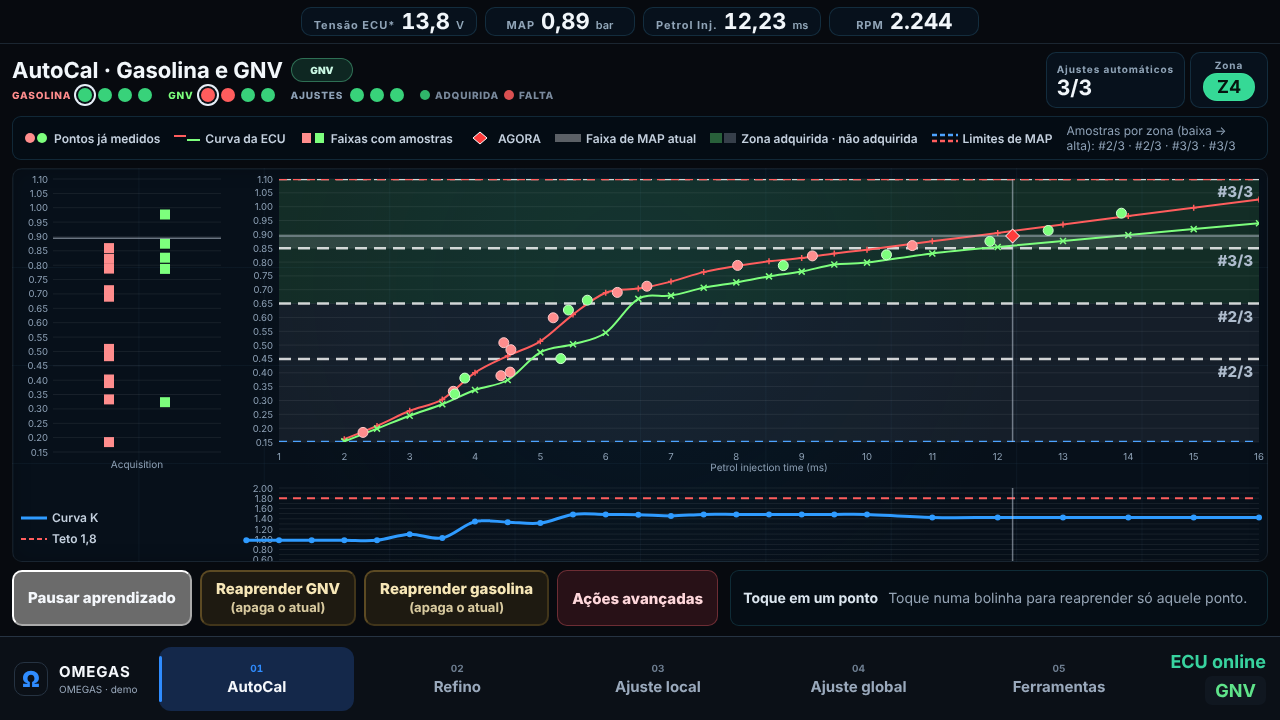
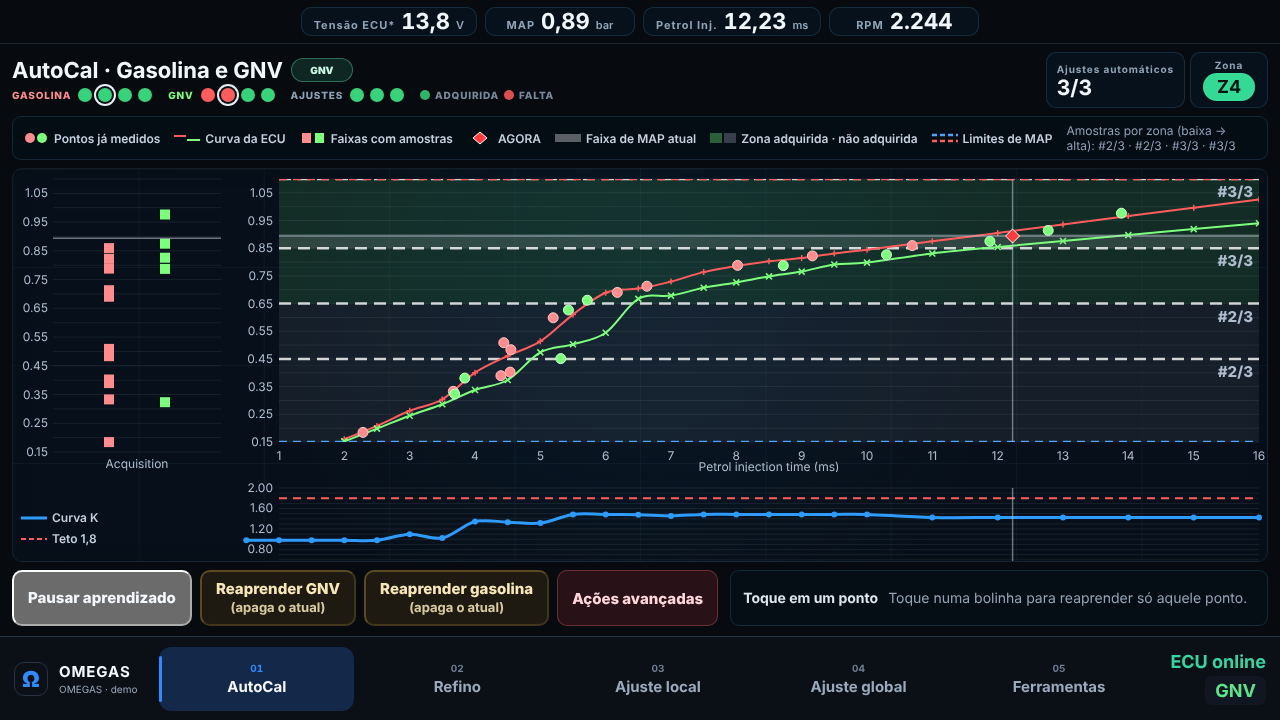
Gráfico: números do eixo em 12 px (rótulo a cada 0,10), eixo K a cada 0,4; mede de novo depois que o layout assenta ao abrir AutoCal/Refino (sem pulo de tamanho)
Claude-Session: https://claude.ai/code/session_01TRDWCk2w2o4Z1q8882kAjb

diff --git a/app/src/main/assets/ui/screens/autocal-original.js b/app/src/main/assets/ui/screens/autocal-original.js
@@ -261,7 +261,8 @@
     }
     for (const value of yTicks(model.axisY, 1)) {
       out.push('<line class="ao-grid" x1="' + p.m.left + '" x2="' + (p.m.left + p.w) + '" y1="' + fixed(p.Y(value)) + '" y2="' + fixed(p.Y(value)) + '"/>');
-      out.push('<text class="ao-tick" x="' + (p.m.left - 6) + '" y="' + fixed(p.Y(value) + 3.5) + '" text-anchor="end">' + value.toFixed(2) + '</text>');
+      // Grade de 0,05 em 0,05; número de 0,10 em 0,10 e em 12 px (multimídia: letra legível, sem número em cima de número).
+      if (Math.round((value - model.axisY.min) / model.axisY.step) % 2 === 0) out.push('<text class="ao-tick" x="' + (p.m.left - 6) + '" y="' + fixed(p.Y(value) + 4) + '" text-anchor="end">' + value.toFixed(2) + '</text>');
     }
     const xTicks = Math.floor(model.axisX.max);
     for (let value = Math.ceil(model.axisX.min); value <= xTicks; value += 1) {
@@ -329,7 +330,7 @@
     out.push('<svg class="ao-svg" data-ao="acquisition" viewBox="0 0 ' + width + ' ' + height + '" role="img" aria-label="Acquisition">');
     for (const value of yTicks(model.axisY, 1)) {
       out.push('<line class="ao-grid" x1="' + p.m.left + '" x2="' + (p.m.left + p.w) + '" y1="' + fixed(p.Y(value)) + '" y2="' + fixed(p.Y(value)) + '"/>');
-      out.push('<text class="ao-tick" x="' + (p.m.left - 5) + '" y="' + fixed(p.Y(value) + 3.5) + '" text-anchor="end">' + value.toFixed(2) + '</text>');
+      if (Math.round((value - model.axisY.min) / model.axisY.step) % 2 === 0) out.push('<text class="ao-tick" x="' + (p.m.left - 5) + '" y="' + fixed(p.Y(value) + 4) + '" text-anchor="end">' + value.toFixed(2) + '</text>');
     }
     out.push('<text class="ao-axis-title" x="' + fixed(p.m.left + p.w / 2) + '" y="' + (height - 4) + '" text-anchor="middle">Acquisition</text>');
     for (const [squares, cls, x] of [[model.petrolSquares, 'petrol', -0.3], [model.gasSquares, 'gas', 0.3]]) {
@@ -351,8 +352,8 @@
     out.push('<svg class="ao-svg" data-ao="k" viewBox="0 0 ' + width + ' ' + height + '" role="img" aria-label="Curva K">');
     for (let value = model.kAxisY.min; value <= model.kAxisY.max + 1e-9; value += model.kAxisY.step) {
       out.push('<line class="ao-grid" x1="' + p.m.left + '" x2="' + (p.m.left + p.w) + '" y1="' + fixed(p.Y(value)) + '" y2="' + fixed(p.Y(value)) + '"/>');
-      // Grade de 0,1 em 0,1; rótulo de 0,2 em 0,2 para não se sobrepor na altura pequena do painel.
-      if (Math.round((value - model.kAxisY.min) / model.kAxisY.step) % 2 === 0) {
+      // Grade de 0,1 em 0,1; rótulo de 0,4 em 0,4 (12 px) para não se sobrepor na altura pequena do painel.
+      if (Math.round((value - model.kAxisY.min) / model.kAxisY.step) % 4 === 0) {
         out.push('<text class="ao-tick" x="' + (p.m.left - 6) + '" y="' + fixed(p.Y(value) + 3.5) + '" text-anchor="end">' + value.toFixed(2) + '</text>');
       }
     }

diff --git a/app/src/main/assets/ui/styles-autocal-cockpit.css b/app/src/main/assets/ui/styles-autocal-cockpit.css
@@ -2144,8 +2144,8 @@
 .ao-legend { display: flex; flex-direction: column; align-items: flex-start; justify-content: center; gap: 6px; padding-left: 8px; }
 .ao-svg { display: block; width: 100%; height: 100%; user-select: none; }
 .ao-grid { stroke: rgba(255,255,255,.07); stroke-width: 1; }
-.ao-tick { fill: #8da0b5; font-size: 9.5px; }
-.ao-axis-title { fill: #8da0b5; font-size: 10px; }
+.ao-tick { fill: #aebccd; font-size: 12px; }
+.ao-axis-title { fill: #aebccd; font-size: 12px; }
 .ao-zone { fill: rgba(150,160,176,.10); } /* zona não adquirida = cinza (dono, 2026-10-13) */
 .ao-zone[data-acquired="true"] { fill: rgba(110,255,130,.12); }
 .ao-zone-edge { stroke: rgba(255,255,255,.8); stroke-width: 2.5; stroke-dasharray: 12 7; } /* bem visível à distância (pedido do dono) */

diff --git a/app/src/main/assets/ui/screens/autocal-cockpit.js b/app/src/main/assets/ui/screens/autocal-cockpit.js
@@ -895,6 +895,15 @@
     enter() {
       this.active = true;
       this.refresh();
+      // Medida do gráfico depois que o layout assenta (dono: lag/pulo ao abrir a aba): a 1ª pintura mede a área antes de a
+      // linha de ações e a barra do topo se acomodarem; um segundo quadro depois, refaz UMA vez com a medida final.
+      if (typeof root.requestAnimationFrame === 'function') {
+        root.requestAnimationFrame(() => root.requestAnimationFrame(() => {
+          if (!this.active || this.store.get().route !== 'autocal' || !this.snapshot) return;
+          this.chartRenderKey = null;
+          this.renderReferenceChart(this.snapshot);
+        }));
+      }
     }
 
     /** As 3 leituras da ponte do AutoCal, na mesma ordem de sempre. */

diff --git a/app/src/main/assets/ui/screens/refino.js b/app/src/main/assets/ui/screens/refino.js
@@ -242,7 +242,10 @@
       this.store.subscribe(state => {
         if (state.route === lastRoute) return;
         lastRoute = state.route;
-        if (state.route === 'refino') root.setTimeout(() => this.refresh(true), 0);
+        if (state.route !== 'refino') return;
+        root.setTimeout(() => this.refresh(true), 0);
+        // Mede o gráfico de novo depois que o layout assenta (evita o pulo de tamanho ao abrir a aba).
+        if (typeof root.requestAnimationFrame === 'function') root.requestAnimationFrame(() => root.requestAnimationFrame(() => { this.chart = null; this.renderChart(); }));
       }, true);
     }
 

diff --git a/docs/handoff/OBSIDIAN-ENXUTO-CHECKPOINT-20261011.md b/docs/handoff/OBSIDIAN-ENXUTO-CHECKPOINT-20261011.md
@@ -214,3 +214,9 @@ Texto anterior ("zerar a curva faz a correção explodir") estava largo demais. 
 - Curva K: saíram "Aprendizado global" e "Evidência técnica" (HTML, `curve.js`, polling). A ciência (`scienceSnapshotSince`) agora só é lida na aba Ferramentas (Mapa K e Curva K não usam).
 - `tools/ci/podar_css_morto.py`: removeu 368 seletores/regras sem uso (CSS −30 KB); `tools/ci/capturar_estados.cjs` + `comparar_pngs.py` provam que 9 estados da tela ficaram **pixel a pixel iguais** antes e depois (0 pixels diferentes).
 - Provas: node 223/0, unittest OK, `run_checks` PASS, e2e sem_rolagem/refino_mapa/curva_para_mapa/curva_k_arrasto/comparar_com_original PASS.
+
+## 2026-10-13 · noite 14 — legibilidade do gráfico e pulo de tamanho ao abrir a aba
+- CIs verdes: 4721c70 (inclui `NativeAutoCalAcquisitionEpochTest` novos) e 7938d37.
+- HMI (NHTSA, diretrizes de distração de 2012–2013, não revalidadas): olhadas ≤ 2 s, ≤ 6 toques em 12 s por tarefa, evitar > 30 caracteres de texto. Nossas ações de gravar levam 2 toques (Mapa K) ou 2–3 (Curva K). Letra mínima/alvo de toque não veio da pesquisa (ISO 15008 seria a fonte).
+- Gráfico: números dos eixos de 9,5 px → 12 px, rótulo de 0,10 em 0,10 (grade continua de 0,05), eixo K de 0,4 em 0,4. Antes o painel da Curva K aparecia cortado até a releitura de 1 s: o gráfico agora é medido de novo 2 quadros depois de abrir a aba (AutoCal e Refino), tamanho estável nos três caminhos testados.
+- Provas locais: node 223/0, unittest OK, run_checks PASS, e2e PASS, original×OMEGAS PASS.
